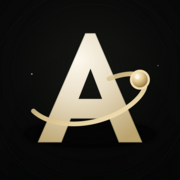
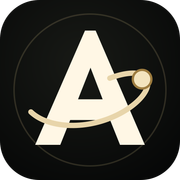
Lay $AUEVO token infrastructure ahead of tonight's contract deploy
Real logo assets replace the placeholder app icon/favicon and register
as the "auevo" ticker's brand mark (BrandIcon picks it up anywhere a
ticker badge is shown). New public /token page and an Overview promo
banner point at it now; both stay honest about what isn't known yet
(price/supply/contract show "—", no invented tokenomics copy) until the
real contract lands and can be verified the same way every other
on-chain address in this app is.

Claude-Session: https://claude.ai/code/session_013nPD6dZY1KdUEiLMiPvyUm

diff --git a/src/app/token/page.tsx b/src/app/token/page.tsx
@@ -1,0 +1,78 @@
+import Link from "next/link";
+import type { Metadata } from "next";
+import { AuevoLogo } from "@/app/auevo-logo";
+
+/**
+ * $AUEVO's own public page — separate metadata for the same reason
+ * scanner/layout.tsx has its own: a link to this shared before launch
+ * shouldn't unfurl as the platform's generic homepage copy.
+ *
+ * Deliberately no tokenomics/utility copy yet: the contract hasn't
+ * deployed, and this app doesn't publish financial claims it can't back
+ * with a real, verified address. Real numbers replace the placeholders
+ * below the moment the token launches — see docs/RWA_SPEC.md section 9's
+ * standing "no hardcoding without a verified source" rule, which applies
+ * here as much as to any on-chain address this app shows.
+ */
+export const metadata: Metadata = {
+  title: "$AUEVO — the Auevo token",
+  description: "The native token of the Auevo platform, launching on Robinhood Chain.",
+  openGraph: {
+    title: "$AUEVO — the Auevo token",
+    description: "The native token of the Auevo platform, launching on Robinhood Chain.",
+    url: "https://auevo.io/token",
+    siteName: "Auevo",
+    type: "website",
+  },
+  twitter: {
+    card: "summary_large_image",
+    title: "$AUEVO — the Auevo token",
+    description: "The native token of the Auevo platform, launching on Robinhood Chain.",
+  },
+};
+
+const STATS = ["Price", "Market cap", "Circulating supply", "Contract"];
+
+export default function TokenPage() {
+  return (
+    <main className="site token-page">
+      <header className="topbar">
+        <Link href="/" className="brand brand-auevo" aria-label="Auevo home">
+          <AuevoLogo />
+        </Link>
+
+        <nav>
+          <span className="trade-nav-active">$AUEVO</span>
+          <Link href="/app">Auevo app →</Link>
+        </nav>
+
+        <div className="topbar-right">
+          <span className="network-dot" />
+          <span>Robinhood Chain</span>
+        </div>
+      </header>
+
+      <section className="token-hero">
+        <img src="/logos/auevo.png" alt="AUEVO" className="token-hero-mark" />
+        <h1>$AUEVO</h1>
+        <span className="token-hero-badge">Launching soon</span>
+        <p className="token-hero-lead">
+          The native token of the Auevo platform, on Robinhood Chain. The
+          contract address, real supply figures and a full read-only security
+          self-scan land here the moment it deploys — the same scan every
+          other token gets on this app&apos;s{" "}
+          <Link href="/scanner">Token Scanner</Link>.
+        </p>
+      </section>
+
+      <section className="token-stats" aria-label="Token stats (unavailable until launch)">
+        {STATS.map((label) => (
+          <div className="token-stat" key={label}>
+            <span className="token-stat-label">{label}</span>
+            <span className="token-stat-value">—</span>
+          </div>
+        ))}
+      </section>
+    </main>
+  );
+}

diff --git a/src/app/globals.css b/src/app/globals.css
@@ -9930,6 +9930,94 @@ a {
   white-space: nowrap;
 }
 
+.token-hero {
+  max-width: 640px;
+  margin: 64px auto 0;
+  padding: 0 24px;
+  text-align: center;
+  display: flex;
+  flex-direction: column;
+  align-items: center;
+}
+
+.token-hero-mark {
+  width: 96px;
+  height: 96px;
+  border-radius: 50%;
+  margin-bottom: 20px;
+}
+
+.token-hero h1 {
+  font-size: 40px;
+  font-weight: 850;
+  letter-spacing: -.03em;
+  color: #f7f7f5;
+  margin: 0;
+}
+
+.token-hero-badge {
+  margin-top: 14px;
+  padding: 6px 16px;
+  border-radius: 999px;
+  border: 1px solid rgba(201,178,124,.4);
+  background: rgba(201,178,124,.08);
+  color: var(--au-gold, #c9b27c);
+  font-size: 12px;
+  font-weight: 700;
+  letter-spacing: .04em;
+  text-transform: uppercase;
+}
+
+.token-hero-lead {
+  margin-top: 22px;
+  color: #a1a6aa;
+  font-size: 15px;
+  line-height: 1.6;
+}
+
+.token-hero-lead a {
+  color: var(--au-gold, #c9b27c);
+}
+
+.token-stats {
+  max-width: 900px;
+  margin: 48px auto 80px;
+  padding: 0 24px;
+  display: grid;
+  grid-template-columns: repeat(4, 1fr);
+  gap: 14px;
+}
+
+.token-stat {
+  padding: 18px;
+  border-radius: 14px;
+  background: var(--panel);
+  border: 1px solid rgba(255,255,255,.06);
+  display: flex;
+  flex-direction: column;
+  gap: 8px;
+}
+
+.token-stat-label {
+  font-size: 11px;
+  font-weight: 600;
+  letter-spacing: .04em;
+  text-transform: uppercase;
+  color: #7d8388;
+}
+
+.token-stat-value {
+  font-size: 20px;
+  font-weight: 700;
+  color: #f7f7f5;
+}
+
+@media (max-width: 640px) {
+  .token-stats {
+    grid-template-columns: repeat(2, 1fr);
+  }
+}
+
 .app-nav-soon-badge {
   margin-left: 6px;
   padding: 1px 6px;

diff --git a/src/app/app/page.tsx b/src/app/app/page.tsx
@@ -393,6 +393,18 @@ export default function AppOverviewPage() {
         <LandingCards cards={QUICK_ACTIONS} />
       </div>
 
+      <Link href="/token" className="agent-promo-banner">
+        <span className="agent-preview-dot" aria-hidden="true" />
+        <span className="agent-promo-body">
+          <span className="agent-promo-eyebrow">Launching soon</span>
+          <strong>$AUEVO — the native token of the Auevo platform</strong>
+          <span>
+            Contract, supply and a full self-scan report land here the moment it deploys on Robinhood Chain.
+          </span>
+        </span>
+        <span className="agent-promo-cta">View →</span>
+      </Link>
+
       <Link href="/app/agent" className="agent-promo-banner">
         <span className="agent-preview-dot" aria-hidden="true" />
         <span className="agent-promo-body">

diff --git a/src/app/nav-icons.tsx b/src/app/nav-icons.tsx
@@ -22,7 +22,8 @@ export type NavIconKind =
   | "trending-up"
   | "search"
   | "document"
-  | "book";
+  | "book"
+  | "coin";
 
 export function NavIcon({ kind, size = 16 }: { kind: NavIconKind; size?: number }) {
   const common = {
@@ -173,6 +174,14 @@ export function NavIcon({ kind, size = 16 }: { kind: NavIconKind; size?: number 
         <svg {...common}>
           <path d="M4 5.5A2.5 2.5 0 0 1 6.5 3H20v16H6.5A2.5 2.5 0 0 0 4 21.5z" />
           <path d="M4 5.5v16" />
+        </svg>
+      );
+    case "coin":
+      return (
+        <svg {...common}>
+          <circle cx="12" cy="12" r="9" />
+          <path d="M9 15.5c0 1 1.3 1.8 3 1.8s3-.8 3-1.8-1.3-1.5-3-1.8-3-.8-3-1.9 1.3-1.8 3-1.8 3 .8 3 1.8" />
+          <path d="M12 6.8v1.2M12 15.9v1.3" />
         </svg>
       );
     default:

diff --git a/src/app/nav-groups.ts b/src/app/nav-groups.ts
@@ -60,6 +60,7 @@ export const NAV_GROUPS: NavGroup[] = [
     id: "more",
     label: "More",
     links: [
+      { id: "auevo-token", label: "$AUEVO", href: "/token", icon: "coin" },
       { id: "token-scanner", label: "Token Scanner", href: "/scanner", icon: "shield" },
       { id: "fee-scanner", label: "Fee Scanner (legacy)", href: "/legacy/fees", icon: "document" },
       { id: "docs", label: "Docs", href: "/docs", icon: "book" },

diff --git a/src/app/brand-logo-files.ts b/src/app/brand-logo-files.ts
@@ -16,6 +16,7 @@
  */
 
 export const TICKER_LOGO_FILES: Record<string, string> = {
+  auevo: "auevo.png",
   aapl: "aapl.svg",
   amc: "amc.svg",
   amd: "amd.svg",
